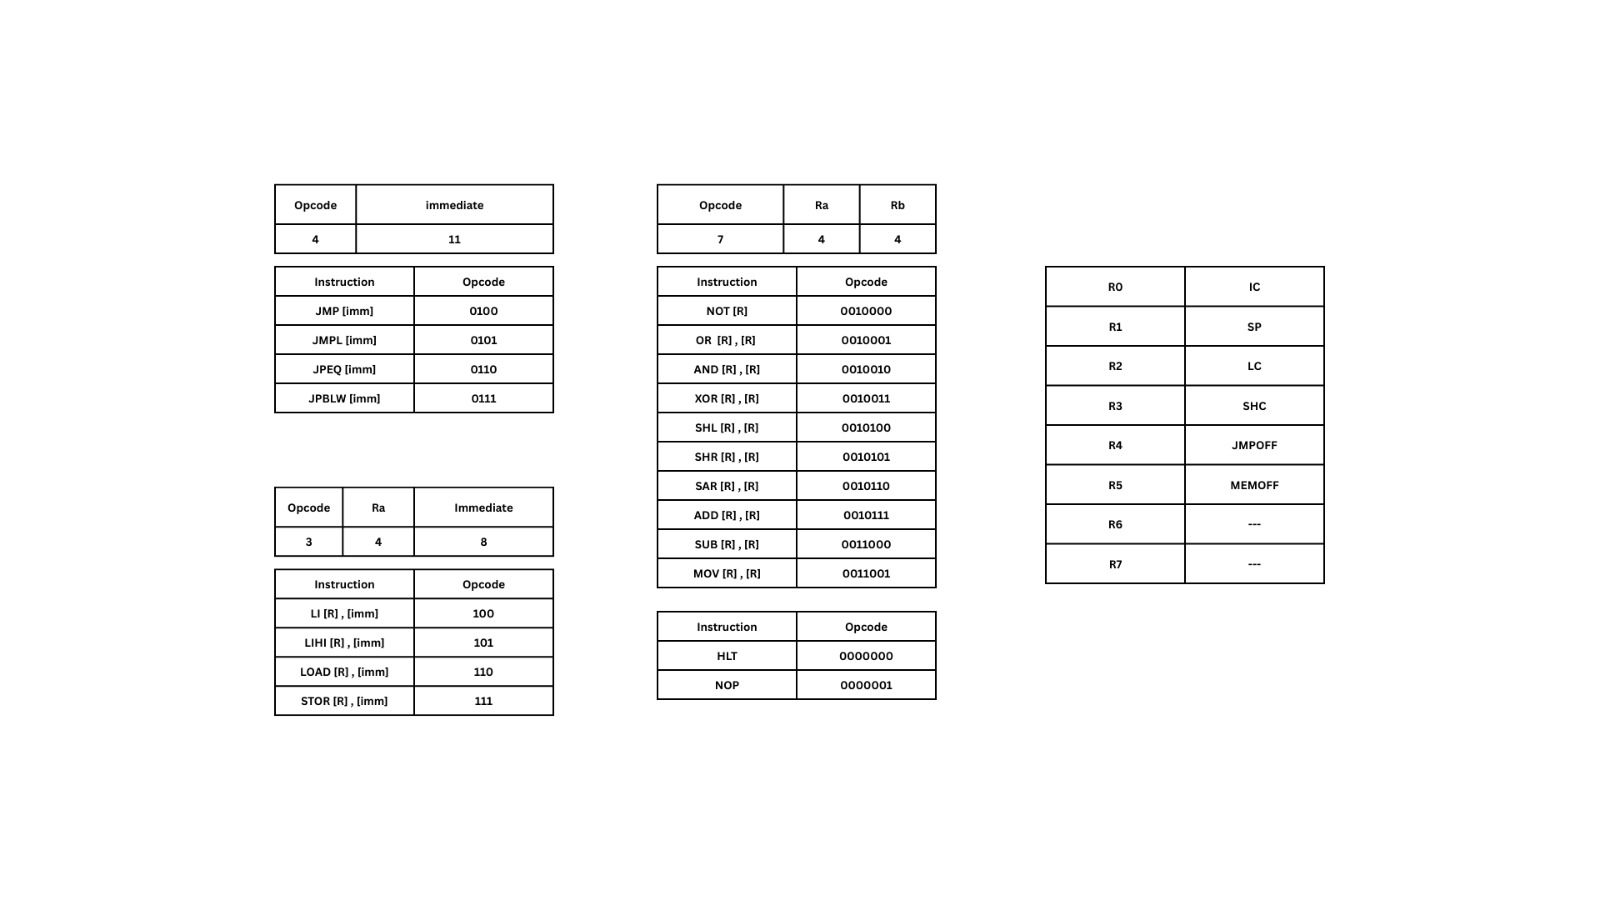
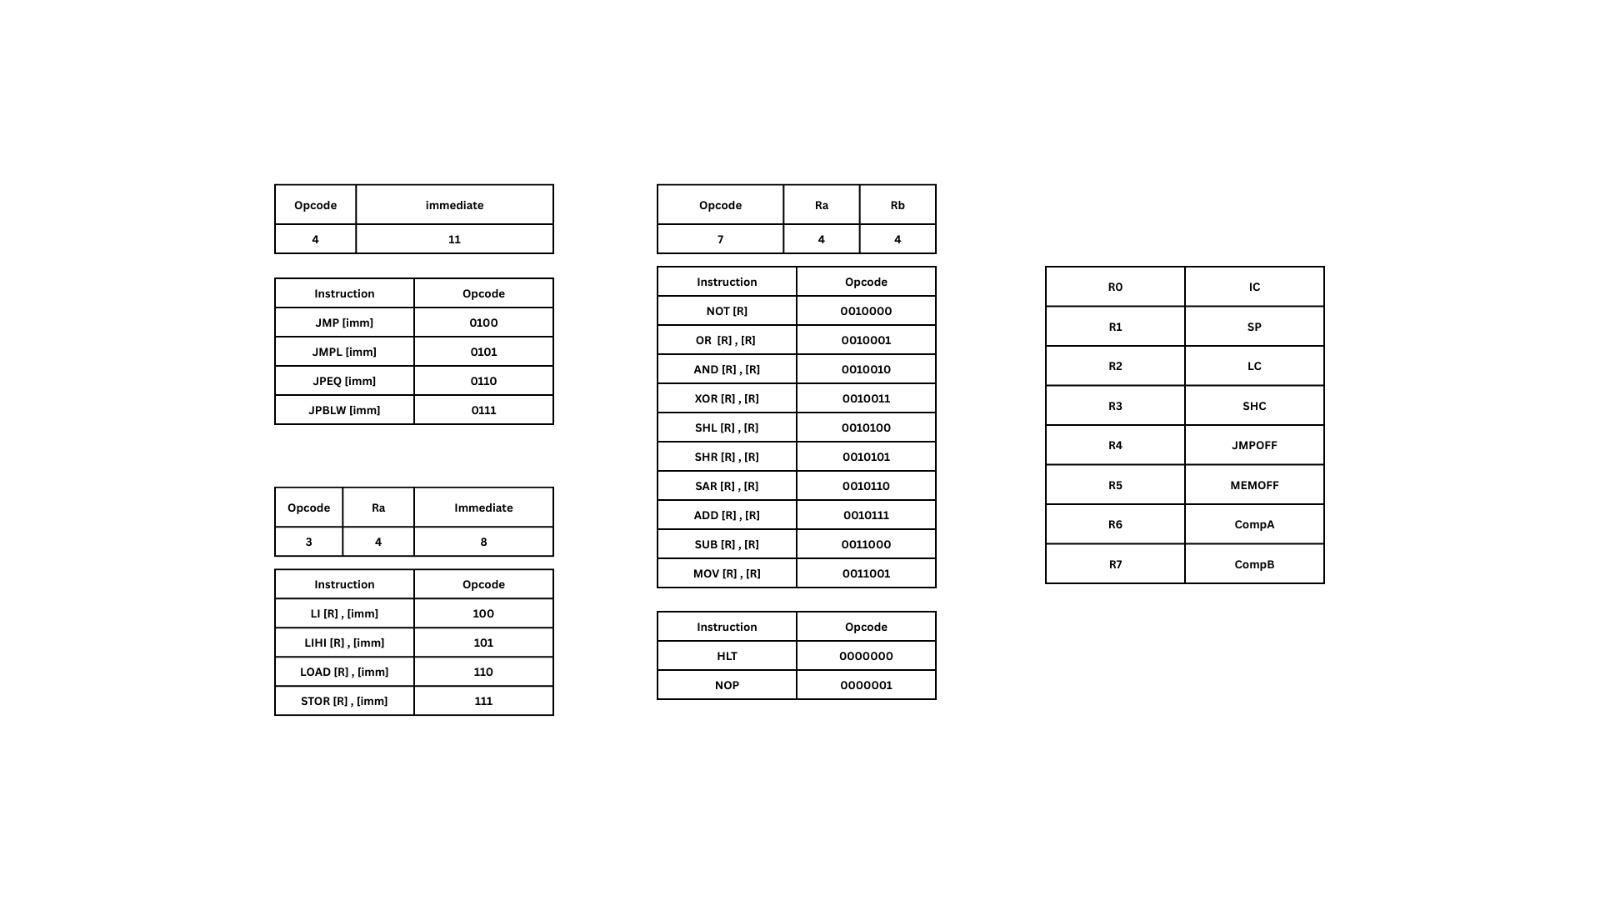
[feat] ISA Refactor

Changed region(s): [[0.1562, 0.28, 0.3438, 0.4667], [0.7812, 0.6222, 0.8125, 0.6533], [0.7812, 0.56, 0.8125, 0.5911]]

diff --git a/src/assembler/app.py b/src/assembler/app.py
@@ -142,7 +142,7 @@ class TitleBar(QtWidgets.QWidget):
         layout.addWidget(self.title_label)
         layout.addStretch(1)
 
-        self.min_btn = QtWidgets.QPushButton("MIN")
+        self.min_btn = QtWidgets.QPushButton("-")
         self.min_btn.setObjectName("titleButton")
         self.max_btn = QtWidgets.QPushButton("MAX")
         self.max_btn.setObjectName("titleButton")
@@ -399,14 +399,14 @@ class AssemblerWindow(QtWidgets.QMainWindow):
         gen_rows = [(mnem, mnem, gen_notes.get(mnem, "No operands")) for mnem in GEN_OPCODES]
 
         imm_syntax = {
-            "LI": "LI Ra, imm8",
-            "LIHI": "LIHI Ra, imm8",
+            "LIL": "LIL Ra, imm8",
+            "LIH": "LIH Ra, imm8",
             "LOAD": "LOAD Ra, imm8",
             "STOR": "STOR Ra, imm8",
         }
         imm_notes = {
-            "LI": "Set bits 7..0 of Ra to imm8",
-            "LIHI": "Set bits 15..8 of Ra to imm8",
+            "LIL": "Set bits 7..0 of Ra to imm8",
+            "LIH": "Set bits 15..8 of Ra to imm8",
             "LOAD": "Ra = MEM[imm8 + MEMOFF] (28-bit word)",
             "STOR": "MEM[imm8 + MEMOFF] = Ra (28-bit word)",
         }
@@ -419,8 +419,8 @@ class AssemblerWindow(QtWidgets.QMainWindow):
         jump_notes = {
             "JMP": "PC += (imm11 << 1)",
             "JMPL": "PC += (imm11 << 1) + JMPOFF",
-            "JPEQ": "If R0 == R1, PC += (imm11 << 1) + JMPOFF",
-            "JPBLW": "If R0 < R1 (unsigned), PC += (imm11 << 1) + JMPOFF",
+            "JPEQ": "If CMPA == CMPB, PC += (imm11 << 1) + JMPOFF",
+            "JPBLW": "If CMPA < CMPB (unsigned), PC += (imm11 << 1) + JMPOFF",
         }
         jump_rows = [
             (mnem, jump_syntax.get(mnem, mnem), jump_notes.get(mnem, ""))
@@ -440,7 +440,9 @@ class AssemblerWindow(QtWidgets.QMainWindow):
             <li>PC/IC increments by 2 after each instruction fetch</li>
         </ul>
         <h4>Registers</h4>
-        <p>General: R0-R7. Full register list (case-insensitive): {reg_names}</p>
+        <p>General: R0-R7.</p>
+        <p>Special: IC, SP, LC, SHC, JMPOFF, MEMOFF, CMPA, CMPB.</p>
+        <p>Full register list (case-insensitive): {reg_names}</p>
         <h4>Encoding Forms</h4>
         <pre>
 RR:  opcode7 | Ra | Rb
@@ -458,6 +460,7 @@ JMP: opcode4 | imm11
         {build_table(imm_rows)}
         <h4>Jump (JMP)</h4>
         <p><code>imm11</code> accepts -1024..1023 (word offset). Labels are allowed and resolve to a PC-relative offset; labels must be 2-byte aligned.</p>
+        <p><code>JPEQ</code> and <code>JPBLW</code> compare only <code>CMPA</code> and <code>CMPB</code>.</p>
         {build_table(jump_rows)}
         <h4>Labels & Comments</h4>
         <pre>

diff --git a/src/assembler/cpu.py b/src/assembler/cpu.py
@@ -9,6 +9,8 @@ from .isa import (
     ADDR_MASK,
     GEN_OPCODES,
     IMM_OPCODES,
+    REG_CMPA,
+    REG_CMPB,
     JUMP_OPCODES,
     REG_IC,
     REG_JMPOFF,
@@ -114,9 +116,9 @@ class CPU:
             op3_val = op3
             ra = (instr >> 8) & 0xF
             imm8 = instr & 0xFF
-            if op3_val == IMM_OPCODES["LI"]:
+            if op3_val == IMM_OPCODES["LIL"]:
                 self.registers[ra] = (self.registers[ra] & ~0xFF) | imm8
-            elif op3_val == IMM_OPCODES["LIHI"]:
+            elif op3_val == IMM_OPCODES["LIH"]:
                 self.registers[ra] = (self.registers[ra] & ~(0xFF << 8)) | (imm8 << 8)
             elif op3_val == IMM_OPCODES["LOAD"]:
                 addr = (imm8 + self.registers[REG_MEMOFF]) & ADDR_MASK
@@ -148,12 +150,12 @@ class CPU:
             elif op4 == JUMP_OPCODES["JMPL"]:
                 do_jump(True)
             elif op4 == JUMP_OPCODES["JPEQ"]:
-                # Assumption for demo: compare R0 and R1.
-                if self.registers[0] == self.registers[1]:
+                if self.registers[REG_CMPA] == self.registers[REG_CMPB]:
                     do_jump(True)
             elif op4 == JUMP_OPCODES["JPBLW"]:
-                # Assumption for demo: compare R0 < R1 (unsigned).
-                if (self.registers[0] & WORD_MASK) < (self.registers[1] & WORD_MASK):
+                if (self.registers[REG_CMPA] & WORD_MASK) < (
+                    self.registers[REG_CMPB] & WORD_MASK
+                ):
                     do_jump(True)
             else:
                 return ExecResult(ic=ic, halted=False, message="Unknown jump opcode")

diff --git a/src/assembler/isa.py b/src/assembler/isa.py
@@ -28,8 +28,8 @@ REG_NAMES = [
     "SHC",
     "JMPOFF",
     "MEMOFF",
-    "R14",
-    "R15",
+    "CMPA",
+    "CMPB",
 ]
 
 REG_ALIASES = {
@@ -39,6 +39,8 @@ REG_ALIASES = {
     "SHC": 11,
     "JMPOFF": 12,
     "MEMOFF": 13,
+    "CMPA": 14,
+    "CMPB": 15,
 }
 
 REG_IC = 8
@@ -47,6 +49,8 @@ REG_LC = 10
 REG_SHC = 11
 REG_JMPOFF = 12
 REG_MEMOFF = 13
+REG_CMPA = 14
+REG_CMPB = 15
 
 RR_OPCODES = {
     "NOT": 0b0010000,
@@ -74,8 +78,8 @@ JUMP_OPCODES = {
 }
 
 IMM_OPCODES = {
-    "LI": 0b100,
-    "LIHI": 0b101,
+    "LIL": 0b100,
+    "LIH": 0b101,
     "LOAD": 0b110,
     "STOR": 0b111,
 }

diff --git a/docs/ISA.md b/docs/ISA.md
@@ -10,7 +10,7 @@ SHC is the shift counter : it holds the amount of bits shifted during any shift 
 JMPOFF : holds the jmp offset value that will be added to the jmp function immediate during long jump operations
 MEMOFF : holds the memory offset value that will be added to the load and store functions immediate.
 
-the last two register are left for future addtions.
+CMPA and CMPB are used in the branching instructions JPBLW and JPEQ where CMPA is the first item in the inequality and CMPB is the second item. 
 
 
 # Register to Register operations 
@@ -57,7 +57,7 @@ in hardware first the immediate value is shifted by 1 bit and then added to the 
 
 ## JPEQ [imm] (0110 ) and JPBLW [imm] (0111)
 
-works similar to the long jmp but only happen with the condition is met wither it being equal or below. using any of them with the jump function and code manipulations can give the opposite conditions such as Jump not equal or jump above
+works similar to the long jmp but only happen with the condition is met wither it being equal or below **(the instruction can only be used with CMPA and CMPB registers to do comparison. if you want to compare to items the values must be moved to them where CMPA is the first item and CMPB is the second item)**. using any of them with the jump function and code manipulations can give the opposite conditions such as Jump not equal or jump above
 
 ## Immediate operations 
 
@@ -65,11 +65,11 @@ it has only 4 functions and defined with the MSB of the opcode as 1
 3 bits of opcode , 4 bits of register select and the 8 bits for the immediate.
 we choose the immediate value to be 8 to be compatible with the memory being byte addressable
 
-## LI [R] , [imm] (100)
+## LIL [R] , [imm] (100)
 
 this function loads the immediate value into the first bits of the register (7 - 0) 
 
-## LIHI [R] , [imm] (101)
+## LIH [R] , [imm] (101)
 
 this function loads the immediate value into the second lowest 8 bits of the register (15 - 8) 
 
